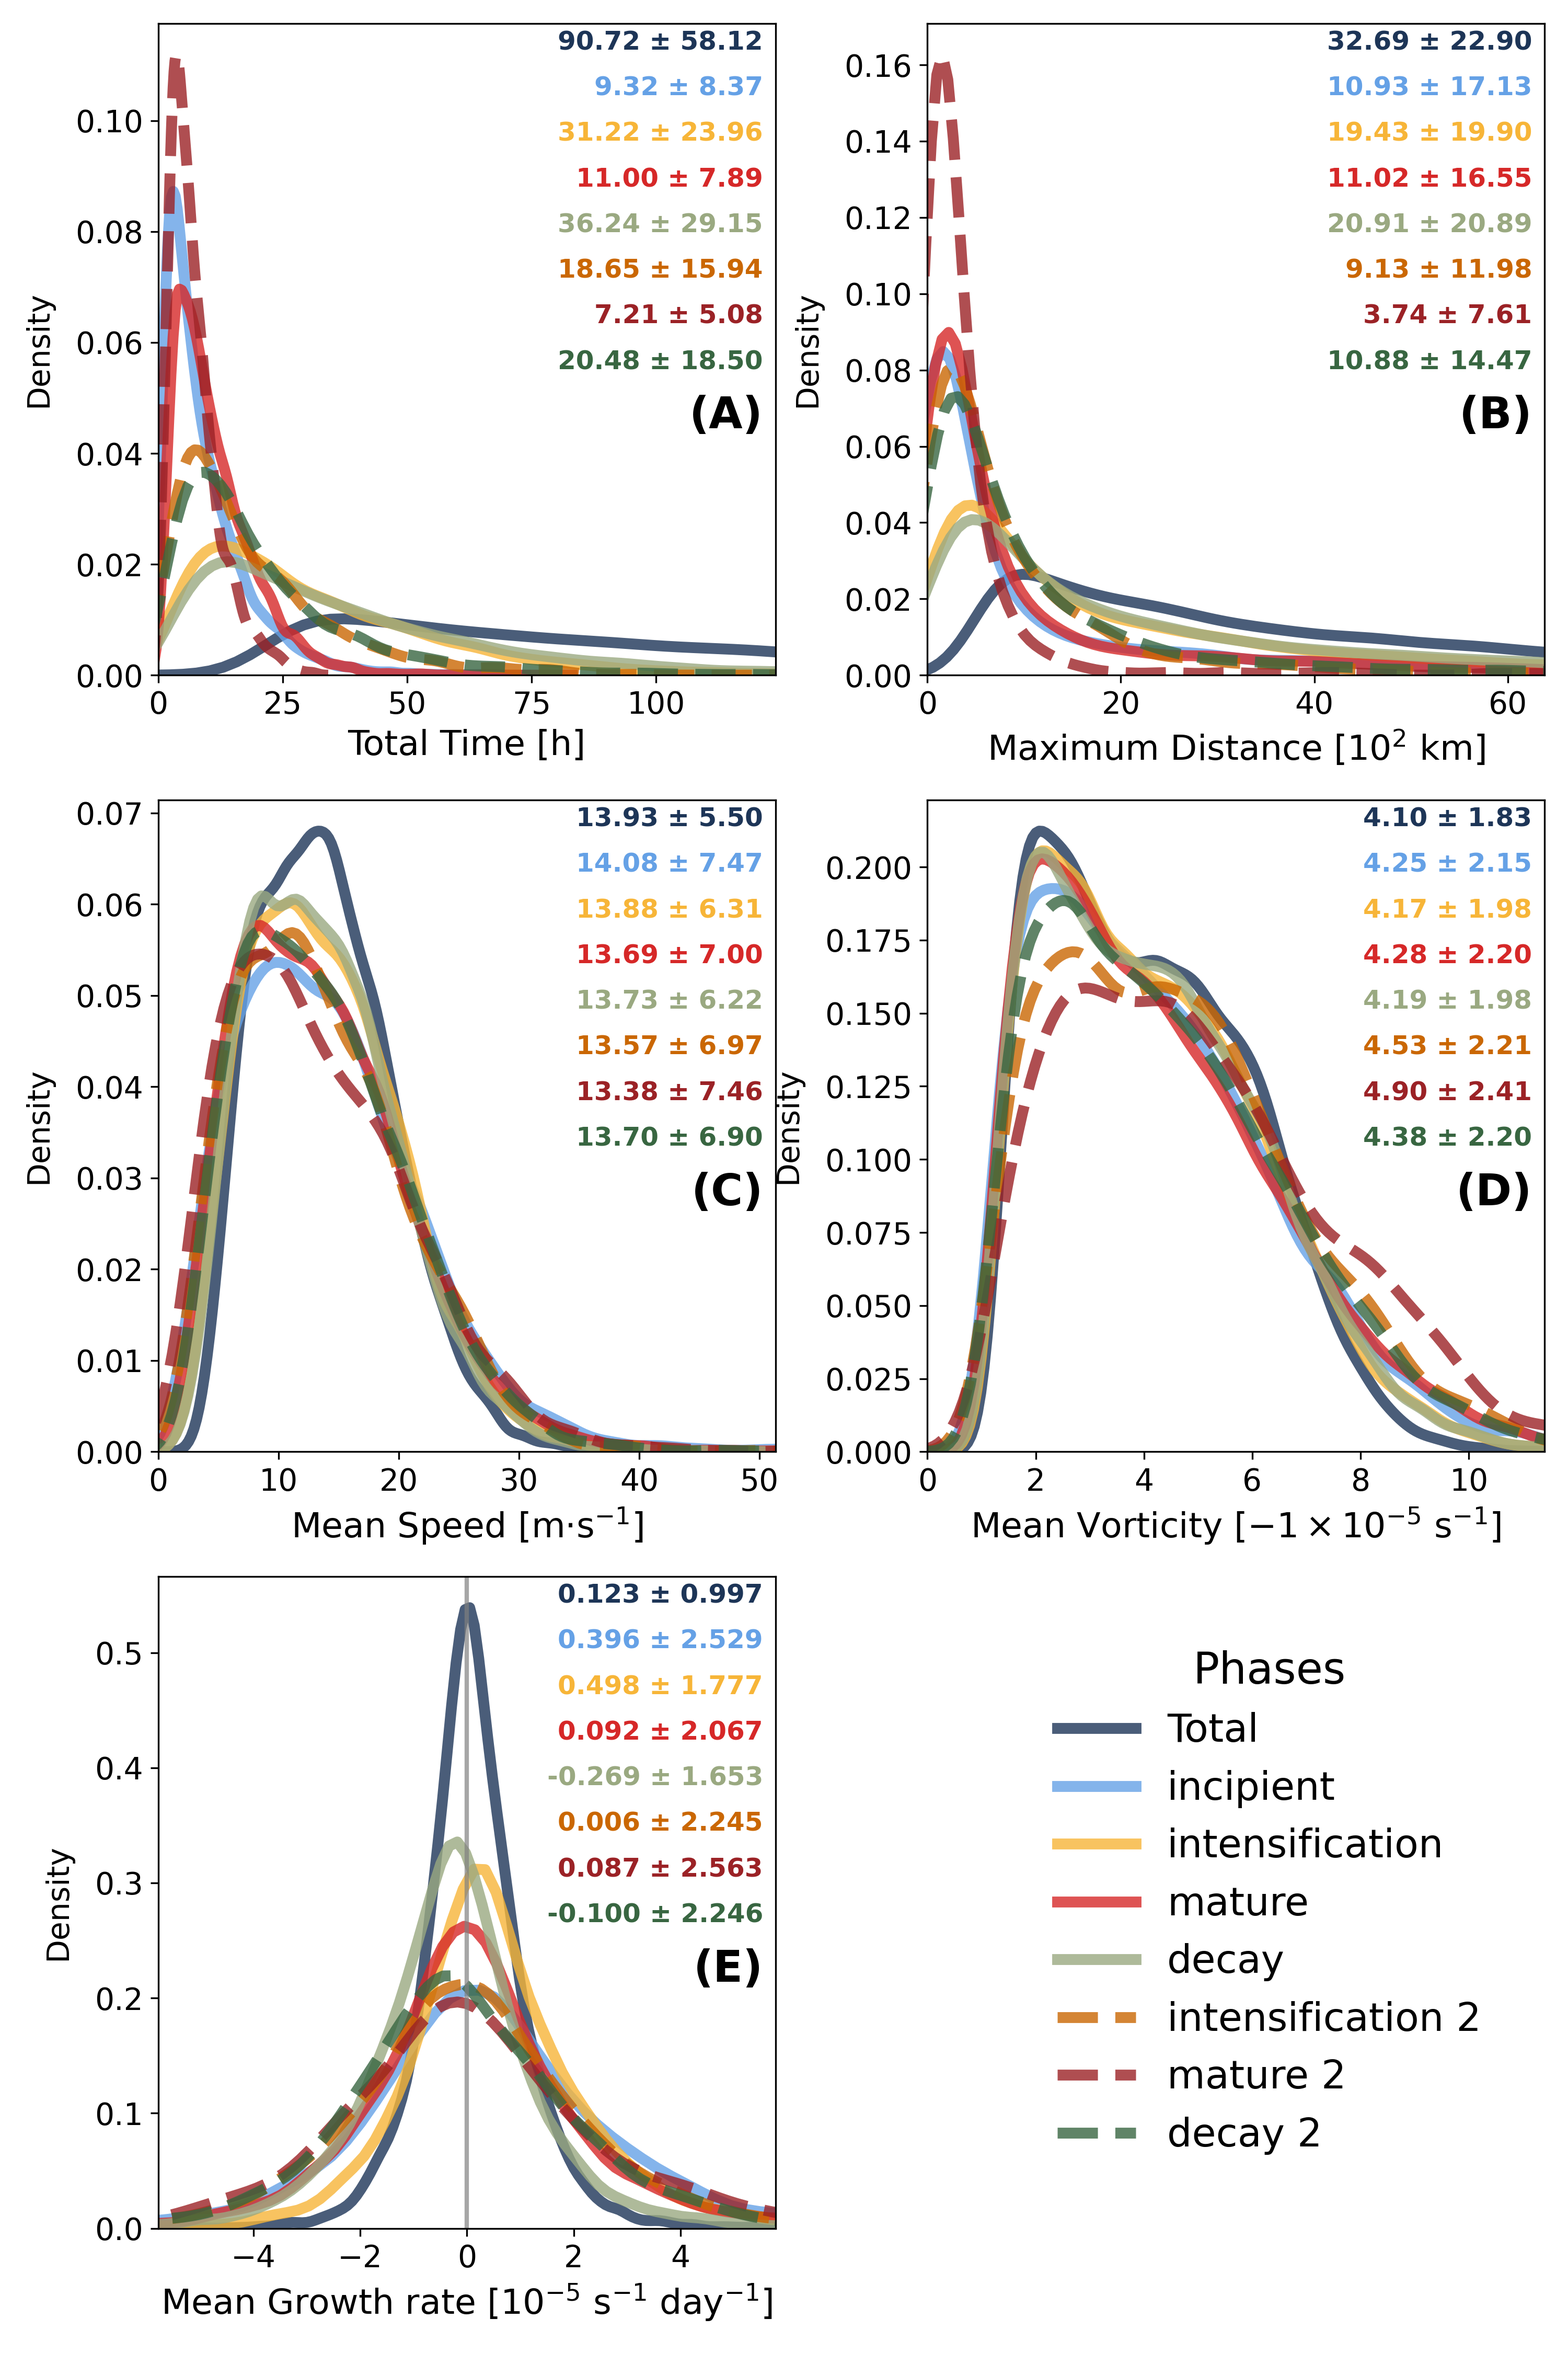
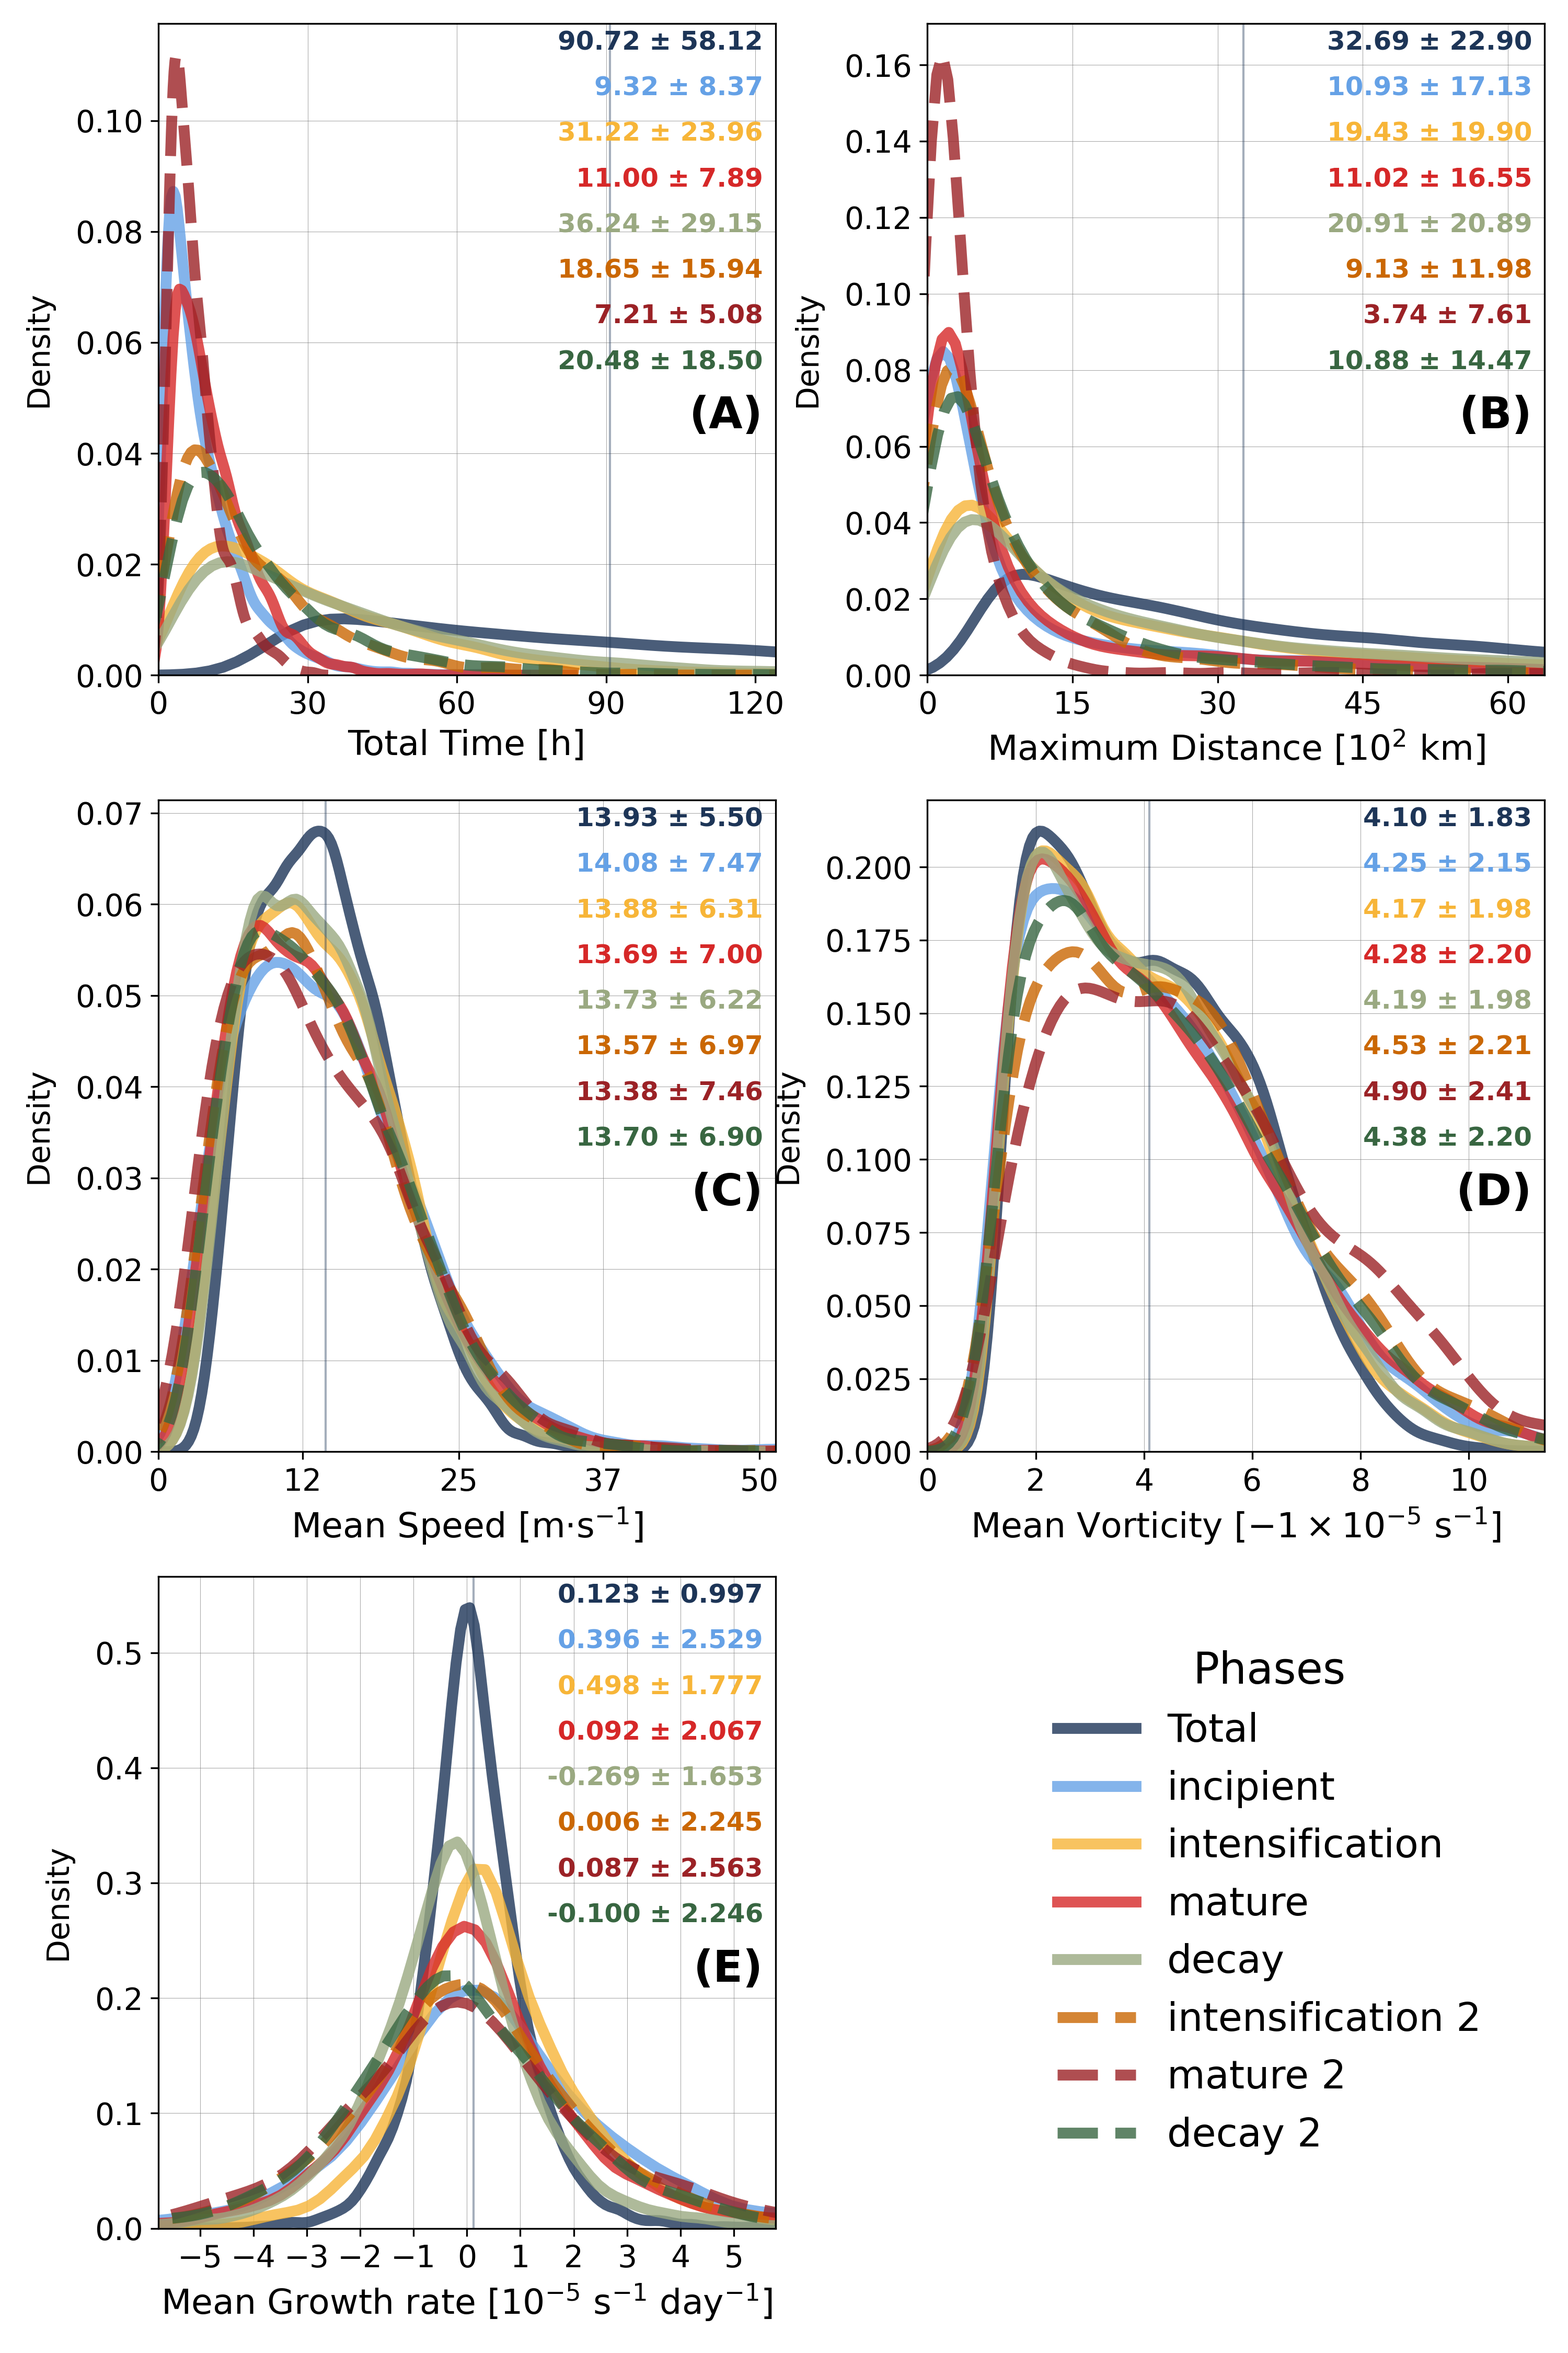
updated histograms

diff --git a/src_manuscript_life-cycle/histograms.py b/src_manuscript_life-cycle/histograms.py
@@ -6,7 +6,7 @@
 #    By: daniloceano <daniloceano@student.42.fr>    +#+  +:+       +#+         #
 #                                                 +#+#+#+#+#+   +#+            #
 #    Created: 2023/10/30 19:37:18 by daniloceano       #+#    #+#              #
-#    Updated: 2023/11/14 14:15:30 by daniloceano      ###   ########.fr        #
+#    Updated: 2023/11/14 17:42:07 by daniloceano      ###   ########.fr        #
 #                                                                              #
 # **************************************************************************** #
 
@@ -15,6 +15,7 @@ import glob
 import numpy as np
 import pandas as pd
 import matplotlib.pyplot as plt
+from matplotlib.ticker import LinearLocator
 from scipy import stats
 from scipy.stats import levene, ttest_ind, mannwhitneyu, anderson, ks_2samp
 
@@ -75,11 +76,17 @@ METRICS_LATEX_MAPPING = {
 
 QUANTILE_VALUES = {
         'Straight Line Distance (km)': 0.9,
-        'Total Time (h)': 0.95,
+        'Total Time (h)': 0.97,
         'Mean Speed (m/s)': 0.999,
         'Mean Growth Rate (10^−5 s^−1 day^-1)': 0.99,
         'Mean Vorticity (−1 × 10−5 s−1)': 0.99
     }
+
+X_TICKS = {'Total Time (h)' : [0, 30, 60, 90, 120],
+        'Straight Line Distance (km)': [0, 15, 30, 45, 60],
+        'Mean Speed (m/s)' : [0, 12, 25, 37, 50],
+        'Mean Vorticity (−1 × 10−5 s−1)' : [0, 2, 4, 6, 8, 10],
+        'Mean Growth Rate (10^−5 s^−1 day^-1)': [-5, -4, -3, -2, -1, 0, 1, 2, 3, 4, 5]}
 
 def get_database():
     """Reads and aggregates data from all database files."""
@@ -415,10 +422,13 @@ def compare_phases_for_total_region(data):
         ax.yaxis.labelpad = 10
         ax.set_xlabel(METRICS_LATEX_MAPPING[metric], fontsize=16)
         ax.yaxis.set_tick_params(labelsize=14)
-        ax.xaxis.set_tick_params(labelsize=14)
+        ax.xaxis.set_tick_params(labelsize=14)  
+        ax.set_xticks(X_TICKS[metric])      
 
-        if metric == 'Mean Growth Rate (10^−5 s^−1 day^-1)':
-            ax.axvline(0, color='gray', linestyle='-', linewidth=2, alpha=0.7)
+        ax.grid(color='gray', linestyle='-', linewidth=0.25, alpha=0.7, zorder = 1)
+
+        ax.axvline(data[data['phase'] == "Total"][metric].mean(), linestyle='-',
+                   linewidth=1, alpha=0.4, zorder = 2, color=COLOR_PHASES['Total'])
 
         # Place the legend
         if i == num_metrics - 1:
@@ -522,15 +532,15 @@ def create_statistics_table(database):
 def main():
     database = get_database()
     
-    jja_data = database[database['Genesis Season'] == 'JJA']
-    djf_data = database[database['Genesis Season'] == 'DJF']
-    plot_histograms_with_kde(jja_data, djf_data)
+    # jja_data = database[database['Genesis Season'] == 'JJA']
+    # djf_data = database[database['Genesis Season'] == 'DJF']
+    # plot_histograms_with_kde(jja_data, djf_data)
     
-    compare_phases_by_region(database)
+    # compare_phases_by_region(database)
 
     compare_phases_for_total_region(database)
 
-    create_statistics_table(database)
+    # create_statistics_table(database)
 
 if __name__ == '__main__':
     main()
